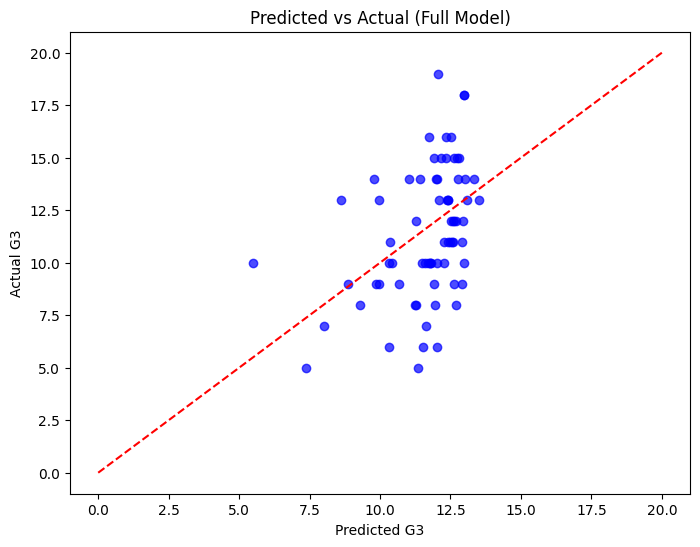
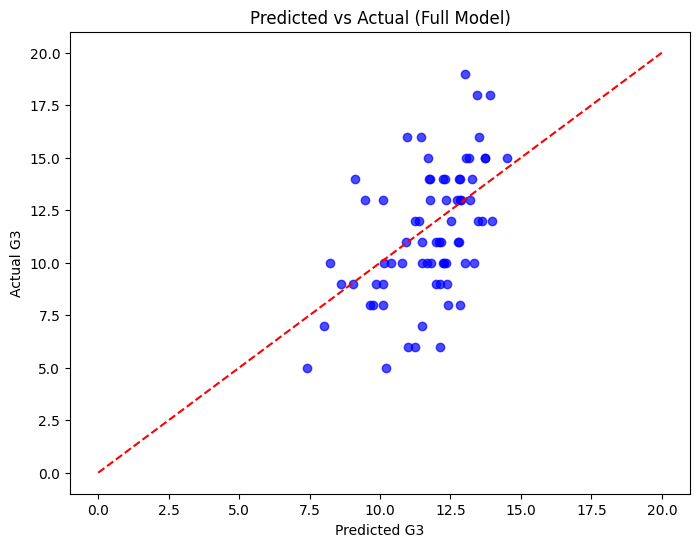
Complete assignment 2.1

diff --git a/assignments_02/project_02.py b/assignments_02/project_02.py
@@ -14,7 +14,7 @@ import seaborn as sns
 
 # Task 1: Load and Explore
 
-df = pd.read_csv("outputs/student_performance_math.csv", sep=";")
+df = pd.read_csv("student_performance_math.csv", sep=";")
 
 print("Shape of dataset: (Rows, Columns) ", df.shape)
 print("\nFirst five rows:")
@@ -24,8 +24,8 @@ print(df.dtypes)
 
 plt.hist(df["G3"], bins=21, color="green", rwidth=0.8, edgecolor="black")
 plt.title("Distribution of Final Math Grades")
-plt.xlabel("Final grade G3")
-plt.ylabel("Number of student")
+plt.xlabel("Final Grade")
+plt.ylabel("Number of students")
 plt.savefig("outputs/g3_distribution.png")
 plt.show()
 
@@ -64,11 +64,12 @@ filtered_corr = df_filtered["absences"].corr(df_filtered["G3"], method="pearson"
 print(f"Original: {original_corr}")
 print(f"Filtered: {filtered_corr}")
 
-# Filtering changes the correlation because students with G3=0 are likely failing students.
-# In the original dataset, these students often had very low final grades regardless of their
-# number of absences, adding many points that weaken the relationship between absences and G3.
-# After removing G3=0 cases, the remaining students show a clearer pattern where higher
-# absences are associated with slightly lower final grades.
+# The original correlation between absences and G3 is very weak because the dataset
+# includes students with G3 = 0. These students typically did not take the final exam,
+# so their final grade is zero regardless of how many absences they had. Those records
+# weaken the relationship between absences and final grades. After removing the G3 = 0
+# students, the correlation becomes more negative, showing that among students who
+# completed the course, having more absences is associated with lower final grades.
 
 # Original data
 plt.scatter(df["absences"], df["G3"])
@@ -89,8 +90,13 @@ corr_with_g3 = df_filtered.corr(method="pearson")["G3"].drop("G3").sort_values()
 print("Correlation between each numeric feature and G3")
 print(corr_with_g3)
 
-# The G2 feature has the strongest relationship with G3 with the value 0.965583
-# The surprising result is the relationship between G3 and failures is the lowest value -0.293831
+# G2 has the strongest positive correlation with G3 (0.965583), which is expected
+# because the second-period grade is closely related to the final grade.
+# The strongest negative correlation is failures (-0.293831), showing that students
+# with more past failures generally earn lower final grades.
+# One surprising result is that absences have only a moderate negative correlation
+# (-0.213129), suggesting that attendance alone is not as strong a predictor of
+# final grades as previous academic performance.
 
 plt.figure(figsize=(8, 6))
 
@@ -107,8 +113,9 @@ plt.savefig("outputs/g2_vs_g3.png", bbox_inches="tight")
 plt.show()
 plt.close()
 
-# From the Scatter plot we can see a consistant positive correlation between G2 and G3
-# From that we can predict a student who scored high will most likely to score high in G3 too
+# The scatter plot shows a strong positive linear relationship between G2 and G3.
+# Students who earn higher second-period grades generally earn higher final grades,
+# with relatively little scatter around the overall trend.
 
 plt.figure(figsize=(8, 6))
 
@@ -125,10 +132,12 @@ plt.savefig("outputs/failures_vs_g3.png", bbox_inches="tight")
 plt.show()
 plt.close()
 
-# from this box plot we can see students with 0 past failures got the highest number and also with the highest mean 
-# students with 1 past failures performed little less than students with 0 past failures
-# students with 2 past failures performed little less than students with 1 past failures but there are students
-# who performed well because we can see some outliers
+
+# The box plot shows that students with no previous failures generally have the
+# highest final grades. As the number of past failures increases, the median G3
+# decreases. There are a few high-performing outliers among students with multiple
+# failures, but the overall trend suggests that previous failures are associated
+# with lower final grades.
 
 
 # Task 4: Baseline Model )
@@ -147,15 +156,17 @@ r2 = model.score(X_test, y_test)
 print("RMSE:", rmse)
 print("R2 on the Filtered Dataset:", r2)
 
-# The slope -1.4275 tells us that the model predict -1.4275 less number with every past failures
-# The RSME tells us the model's prediction is off on avarage by 2.961737
-# The R² value is 0.08949 which is less than my expectation that means predicting G3 only 
-# based on failures isnt enough there are more factors that comes into factors
+# The slope of -1.4275 means that for each additional past failure, the model predicts
+# a student's final grade (G3) will decrease by about 1.43 points on the 0-20 grading scale.
+# The RMSE of 2.96 means the model's predictions are off by about 2.96 grade points on average.
+# The R² value of 0.0895 means that failures alone explain only about 9% of the variation
+# in final grades, so other factors also influence student performance.
 
 # Task 5: Build the Full Model )
 
-feature_cols = ["failures", "Medu", "Fedu", "studytime", "higher", "schoolsup",
-                "internet", "sex", "freetime", "activities", "traveltime"]
+feature_cols = ["age", "Medu", "Fedu", "traveltime", "studytime", "failures",
+                "absences", "freetime", "goout", "Walc", "schoolsup",
+                "internet", "higher", "activities", "sex"]
 X = df_filtered[feature_cols].values
 y = df_filtered["G3"].values
 
@@ -176,22 +187,22 @@ print("Train R²:", train_r2)
 print("Test R²:", test_r2)
 print("RMSE:", rmse)
 
-# The full model performed better than the baseline model. The Test R² increased from 0.0895 to 0.1539,
-# and the RMSE decreased from 2.9617 to 2.8550. This shows that using more features helps predict 
+# The full model performed better than the baseline model. The Test R² increased from 0.0895 to 0.2634,
+# and the RMSE decreased from 2.9617 to 2.6639. This shows that using more features helps predict 
 # students' final grades more accurately than using only past failures.
 
 print("Feature Coefficients")
 for name, coef in zip(feature_cols, full_model.coef_):
     print(f"{name:12s}: {coef:+.3f}")
 
-# After looking at the data the surprising value is schoolsup : -2.062 which have a negative value shows a negative relation
+# After looking at the data the surprising value is schoolsup : -2.263 which have a negative value shows a negative relation
 # Which shows there is no relationship between a student getting Extra educational support from the school will do well in G3
 
-# Comparing train R² (0.1749) and test R² (0.1539), the values are close.
+# Comparing train R² (0.2346) and test R² (0.2634), the values are close.
 # This means the model performs similarly on unseen data.
 
 # If deploying this model, I would keep features with stronger effects such as failures,
-# higher, internet, studytime, and schoolsup because they provide more useful information.
+# internet, studytime, and schoolsup because they provide more useful information.
 
 # I would consider dropping activities and freetime because their coefficients are close to
 # zero and they add little value to the prediction.
@@ -212,14 +223,14 @@ plt.close()
 # The filtered dataset contains 357 students, and the test set contains about 72 students
 # (20% of the filtered dataset).
 
-# The full model achieved a Test R² of 0.1539 and an RMSE of 2.8550.
+# The full model achieved a Test R² of 0.2634 and an RMSE of 2.6639.
 # On a 0-20 grade scale, this means the model's predictions are usually off by about
-# 2.86 points from the actual value. The R² value means the model correctly worked about 15% in
+# 2.66 points from the actual value. The R² value means the model correctly worked about 26% in
 # students' final grades, so there are still other factors affceting performance.
 
-# Internet has the largest positive effect +0.834, meaning students with internet
+# Internet has the largest positive effect +1.037, meaning students with internet
 # usually get higher final grades. School support has the largest negative
-# effect -2.062, which is surprising.
+# effect -2.263, which is surprising.
 
 # One surprising result was that school support had a negative effect.
 # I expected it to help students, but it may be because students who
@@ -227,8 +238,9 @@ plt.close()
 
 # Neglected Feature: The Power of G1
 
-feature_cols_G1 = ["failures", "Medu", "Fedu", "studytime", "higher", "schoolsup",
-                "internet", "sex", "freetime", "activities", "traveltime","G1"]
+feature_cols_G1 = ["age", "Medu", "Fedu", "traveltime", "studytime", "failures",
+                "absences", "freetime", "goout", "Walc", "schoolsup",
+                "internet", "higher", "activities", "sex","G1"]
 X = df_filtered[feature_cols_G1].values
 y = df_filtered["G3"].values
 
